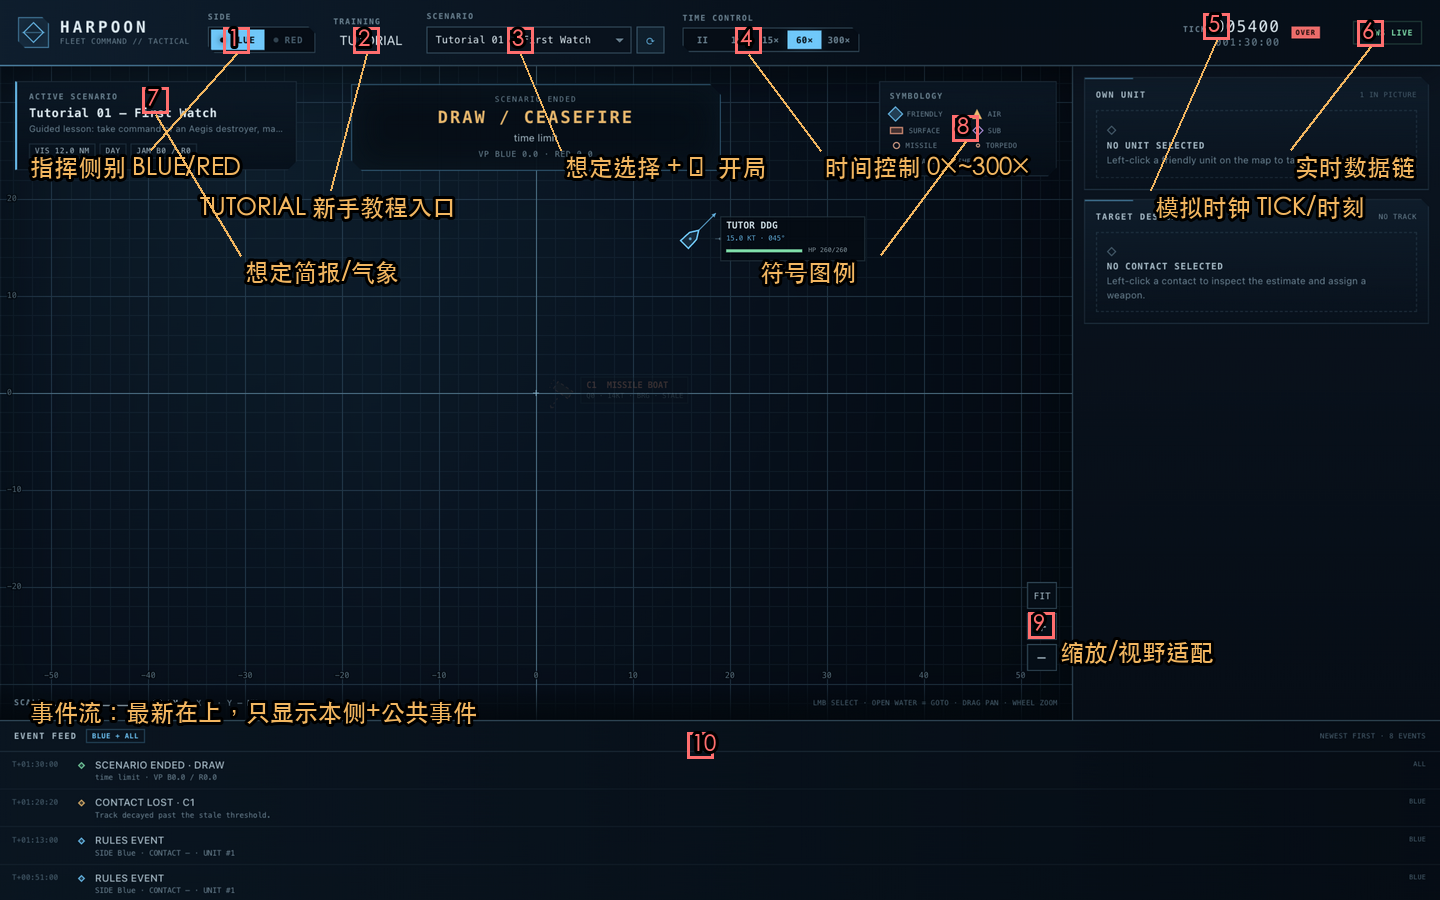
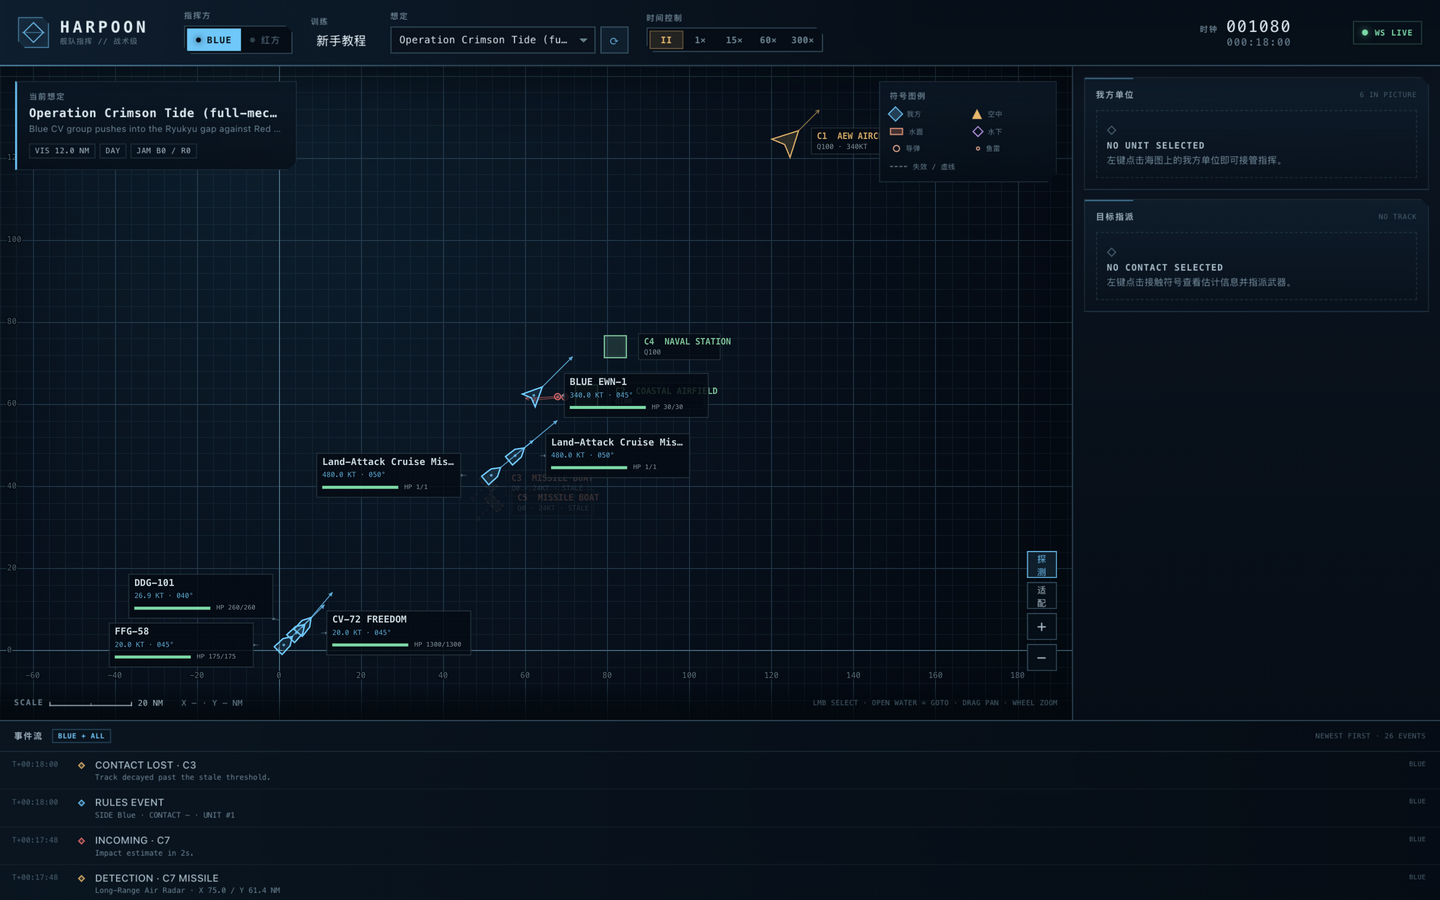
ui: port detection-range rings onto the bilingual command page
- Sensor rings (air dashed cyan / surface cyan / sub dashed green) re-applied
  on top of the academy branch's command.html + bilingual app.js rework
- 探测 toggle added to the new map tools; selected unit always shows rings

diff --git a/web/app.js b/web/app.js
@@ -290,7 +290,9 @@
   // ------------------------------------------------------------------
   // Application state
   // ------------------------------------------------------------------
-  const state = {
+    const state = {
+    showRanges: false, // 探测范围圈：选中单位始终显示，按钮切换全队显示
+
     side: (new URLSearchParams(location.search).get('side') || readStorage('harpoon.side')) === 'Red' ? 'Red' : 'Blue',
     scenarios: [],
     scenarioId: null,
@@ -3214,6 +3216,7 @@
     }
 
     if (selected) drawSelectionBrackets(ctx, screen.x, screen.y, size + 8, color, now, 0.34);
+    if (state.showRanges || selected) drawSensorRings(ctx, unit, layout);
     drawUnitLabel(ctx, screen, size, unit, style, selected, labelBox);
   }
 
@@ -3261,6 +3264,35 @@
       ctx.stroke();
     }
     ctx.restore();
+  }
+
+  // 探测范围圈：对空(虚线青)/对海(实线青)/对潜(虚线绿)
+  function drawSensorRings(ctx, unit, layout) {
+    const sensors = Array.isArray(unit.sensors) ? unit.sensors : [];
+    const c = worldToScreen(unit.pos.x, unit.pos.y);
+    const rings = [
+      ['vs_air', 'rgba(102,209,255,0.50)', [5, 4]],
+      ['vs_surface', 'rgba(102,209,255,0.85)', []],
+      ['vs_sub', 'rgba(85,221,163,0.60)', [2, 4]],
+    ];
+    for (const [key, color, dash] of rings) {
+      let maxNm = 0;
+      for (const sn of sensors) {
+        const v = numberOr(sn[key], 0);
+        if (v > maxNm) maxNm = v;
+      }
+      const r = maxNm * map.view.scale;
+      if (maxNm > 0.2 && r > 6 && r < 5000) {
+        ctx.save();
+        ctx.strokeStyle = color;
+        ctx.setLineDash(dash);
+        ctx.lineWidth = 1;
+        ctx.beginPath();
+        ctx.arc(c.x, c.y, r, 0, Math.PI * 2);
+        ctx.stroke();
+        ctx.restore();
+      }
+    }
   }
 
   function drawUnitLabel(ctx, screen, iconRadius, unit, style, selected, layout) {
@@ -3481,6 +3513,13 @@
       if (id) void startScenario(id);
     });
 
+    const rangesBtn = document.getElementById('map-ranges');
+    if (rangesBtn) {
+      rangesBtn.addEventListener('click', () => {
+        state.showRanges = !state.showRanges;
+        rangesBtn.classList.toggle('is-active', state.showRanges);
+      });
+    }
     dom.btnWeaponsFree.addEventListener('click', () => void issueWeaponsFree());
     dom.btnChaff.addEventListener('click', () => void issueDeployChaff());
     dom.btnStop.addEventListener('click', () => void issueStop());

diff --git a/web/command.html b/web/command.html
@@ -115,6 +115,7 @@
         <div class="map-tools" role="group" aria-label="Map tools">
           <button type="button" id="map-theater" data-i18n-native hidden>战区</button>
           <button type="button" id="map-basemap" data-i18n-native aria-pressed="true" hidden>卫星</button>
+          <button type="button" id="map-ranges" title="显示我方探测范围" aria-label="Toggle detection ranges">探测</button>
           <button type="button" id="map-fit" title="Fit picture to map" aria-label="Fit picture to map">FIT</button>
           <button type="button" id="map-zoom-in" title="Zoom in" aria-label="Zoom in">+</button>
           <button type="button" id="map-zoom-out" title="Zoom out" aria-label="Zoom out">−</button>
